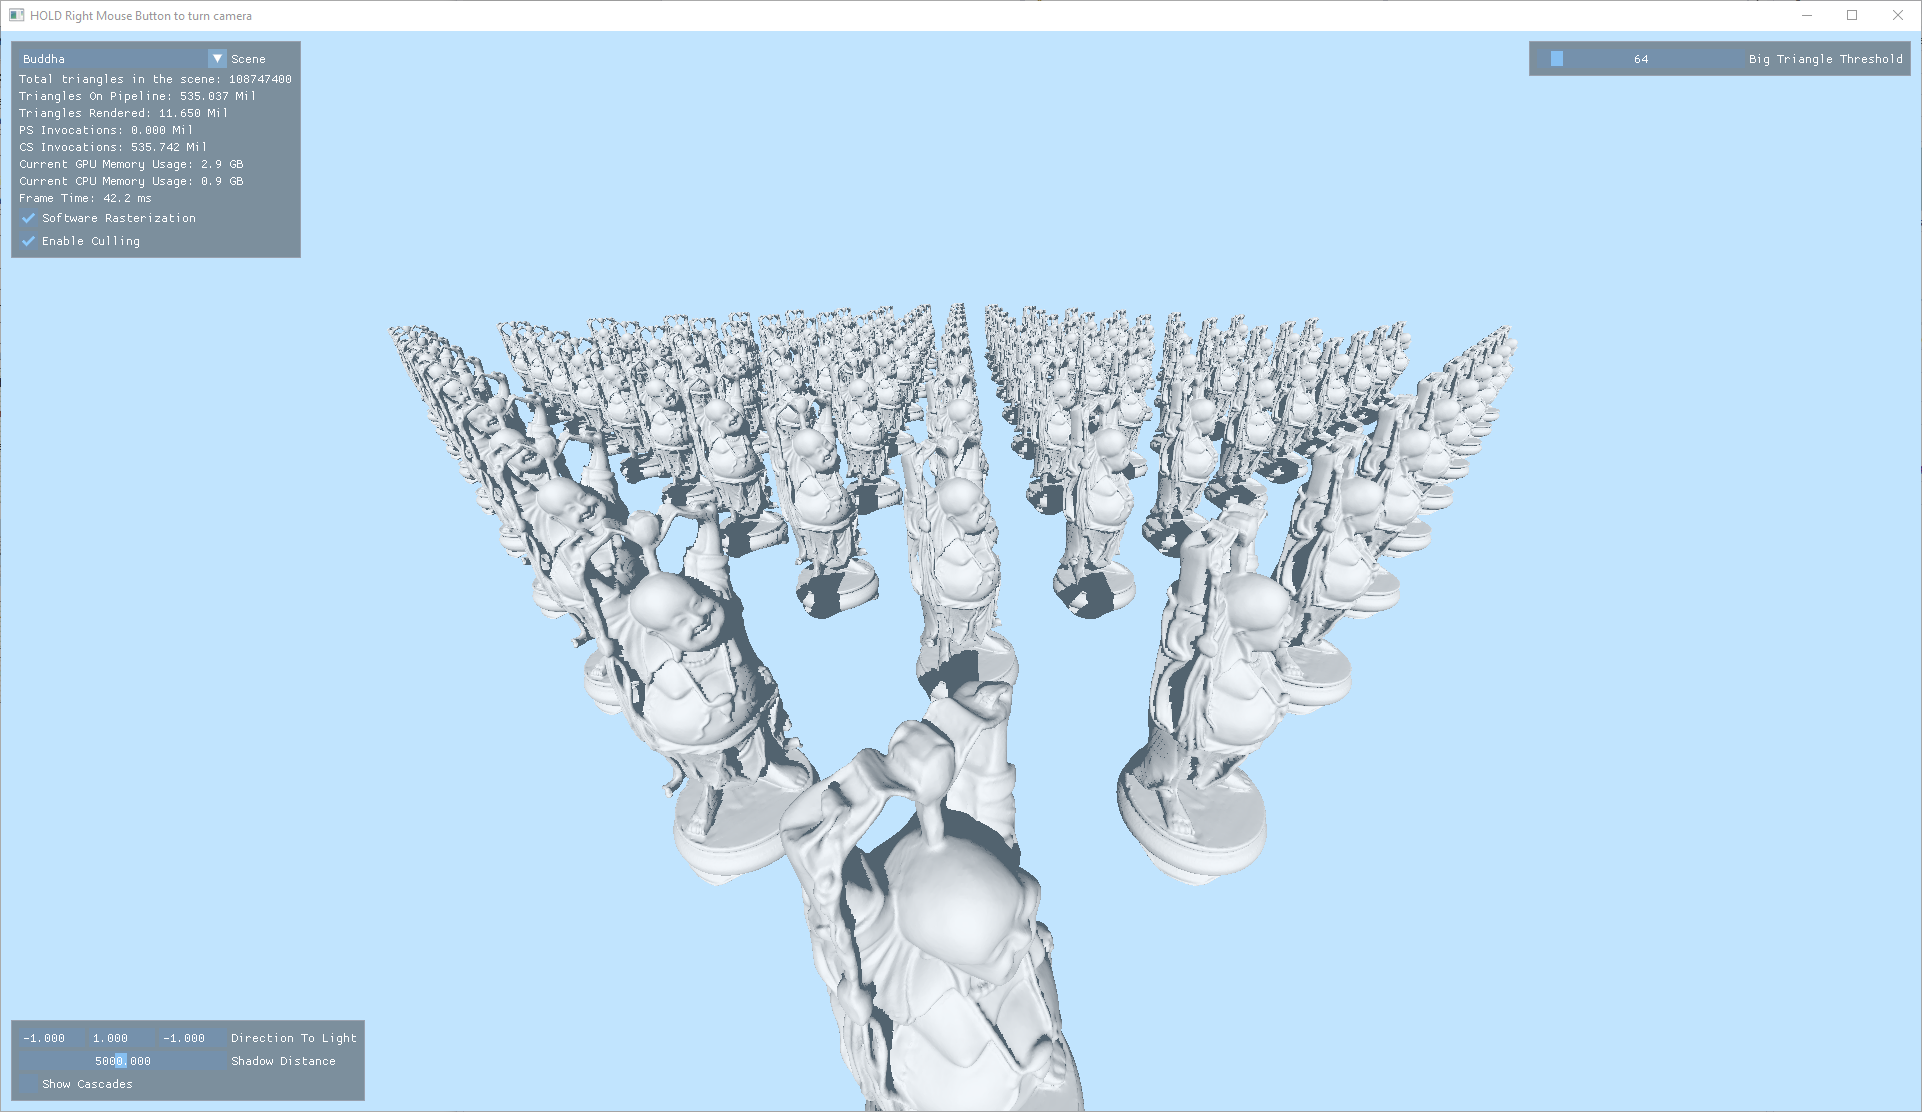
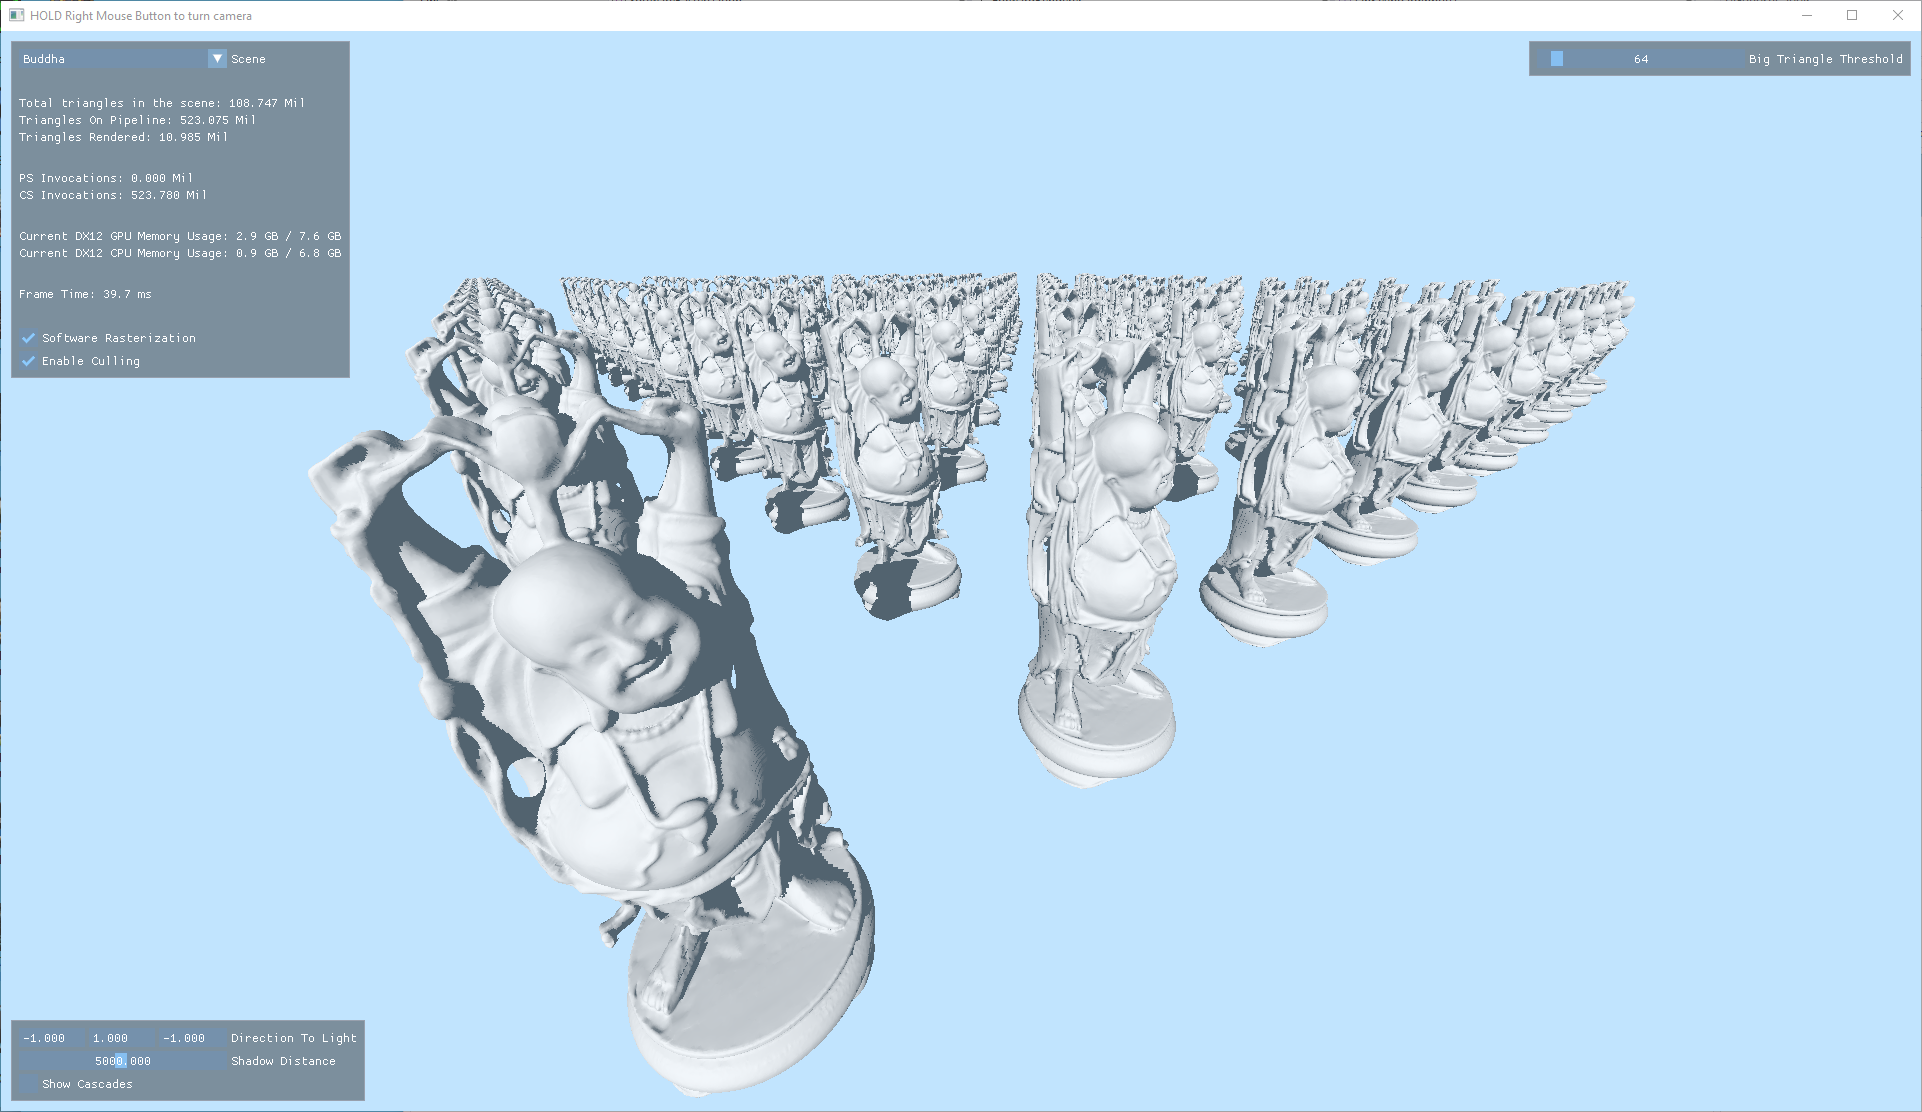
UI fix

diff --git a/ForwardRenderer.cpp b/ForwardRenderer.cpp
@@ -580,25 +580,25 @@ void ForwardRenderer::_GUINewFrame()
 			}
 		}
 
+		ImGui::Dummy(ImVec2(0.0f, 20.0f));
+
 		ImGui::Text(
-			"Total triangles in the scene: %u",
-			Scene::CurrentScene->totalFacesCount);
+			"Total triangles in the scene: %.3f Mil",
+			Scene::CurrentScene->totalFacesCount / 1'000'000.0f);
 
 		const auto& stats = _stats->GetStats();
 
-		float pipelineTriangles;
-		float trianglesRendered;
+		UINT pipelineTriangles;
+		UINT trianglesRendered;
 		if (Settings::SWREnabled)
 		{
-			pipelineTriangles =
-				static_cast<float>(_SWR->GetPipelineTrianglesCount());
-			trianglesRendered =
-				static_cast<float>(_SWR->GetRenderedTrianglesCount());
+			pipelineTriangles = _SWR->GetPipelineTrianglesCount();
+			trianglesRendered = _SWR->GetRenderedTrianglesCount();
 		}
 		else
 		{
-			pipelineTriangles = static_cast<float>(stats.IAPrimitives);
-			trianglesRendered = static_cast<float>(stats.CPrimitives);
+			pipelineTriangles = stats.IAPrimitives;
+			trianglesRendered = stats.CPrimitives;
 		}
 
 		ImGui::Text(
@@ -609,25 +609,35 @@ void ForwardRenderer::_GUINewFrame()
 			"Triangles Rendered: %.3f Mil",
 			trianglesRendered / 1'000'000.0f);
 
+		ImGui::Dummy(ImVec2(0.0f, 20.0f));
+
 		ImGui::Text(
 			"PS Invocations: %.3f Mil",
-			static_cast<float>(stats.PSInvocations) / 1'000'000.0f);
+			stats.PSInvocations / 1'000'000.0f);
 
 		ImGui::Text(
 			"CS Invocations: %.3f Mil",
-			static_cast<float>(stats.CSInvocations) / 1'000'000.0f);
+			stats.CSInvocations / 1'000'000.0f);
+
+		ImGui::Dummy(ImVec2(0.0f, 20.0f));
 
 		ImGui::Text(
-			"Current GPU Memory Usage: %.1f GB",
-			_GPUMemoryInfo.CurrentUsage / 1'000'000'000.0f);
+			"Current DX12 GPU Memory Usage: %.1f GB / %.1f GB",
+			_GPUMemoryInfo.CurrentUsage / 1'000'000'000.0f,
+			_GPUMemoryInfo.Budget / 1'000'000'000.0f);
 
 		ImGui::Text(
-			"Current CPU Memory Usage: %.1f GB",
-			_CPUMemoryInfo.CurrentUsage / 1'000'000'000.0f);
+			"Current DX12 CPU Memory Usage: %.1f GB / %.1f GB",
+			_CPUMemoryInfo.CurrentUsage / 1'000'000'000.0f,
+			_CPUMemoryInfo.Budget / 1'000'000'000.0f);
+
+		ImGui::Dummy(ImVec2(0.0f, 20.0f));
 
 		ImGui::Text(
 			"Frame Time: %.1f ms",
 			_profiler->GetTimeMS(DX::CommandQueue.Get()));
+
+		ImGui::Dummy(ImVec2(0.0f, 20.0f));
 
 		if (ImGui::Checkbox("Software Rasterization", &Settings::SWREnabled))
 		{
